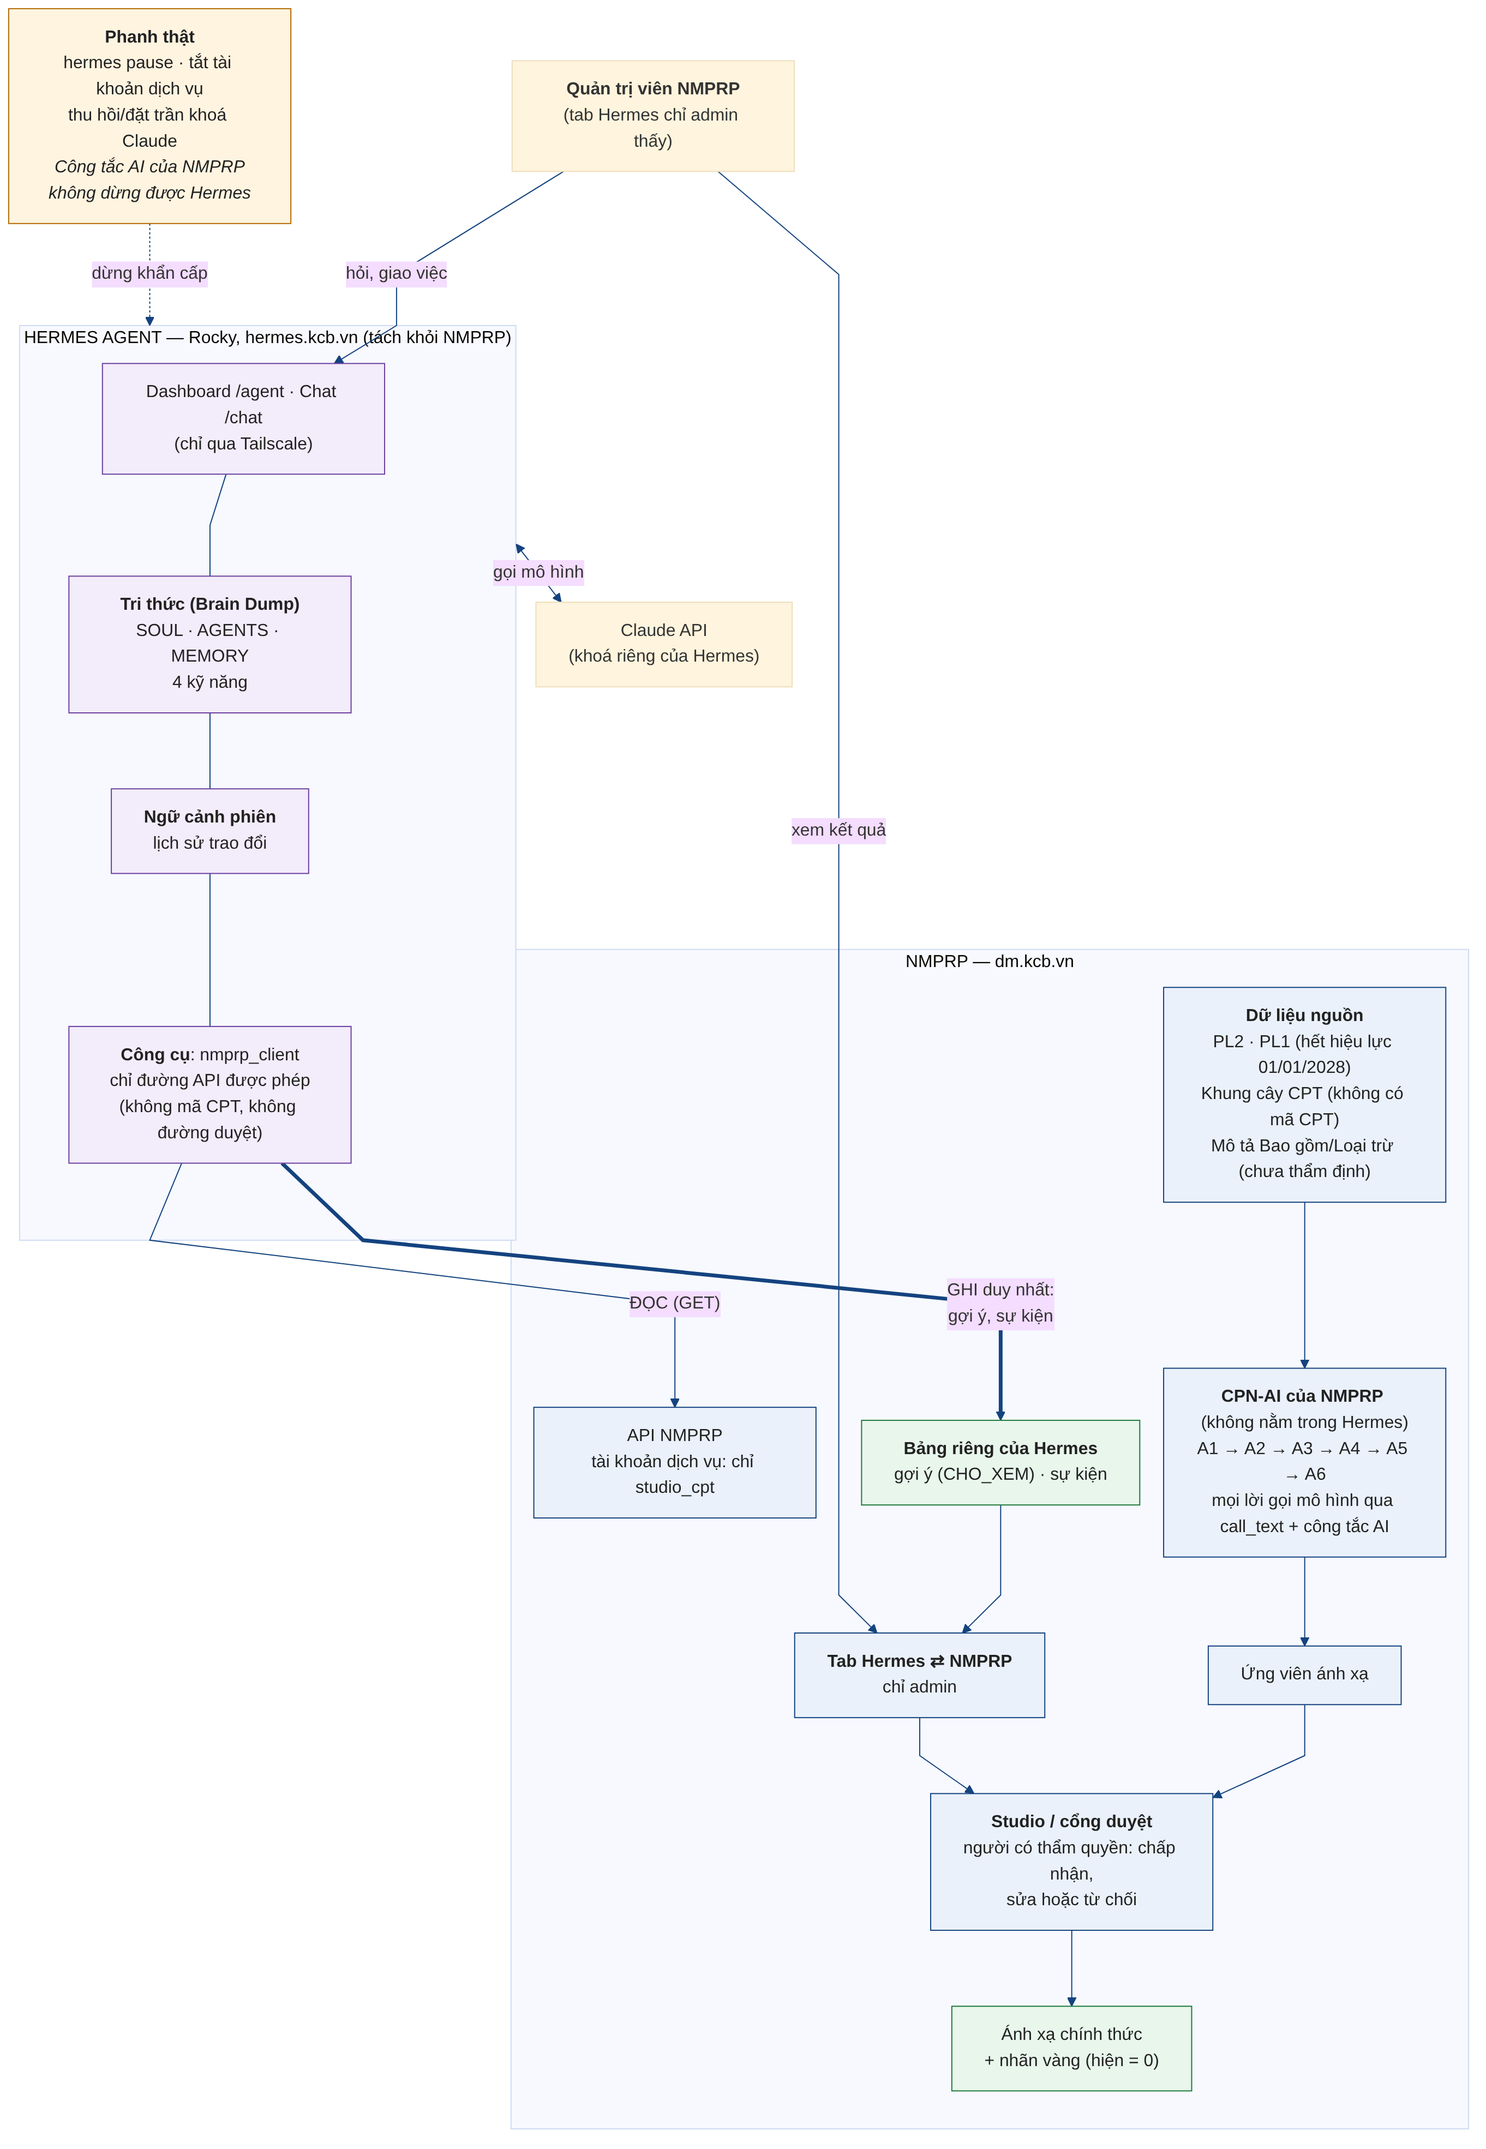
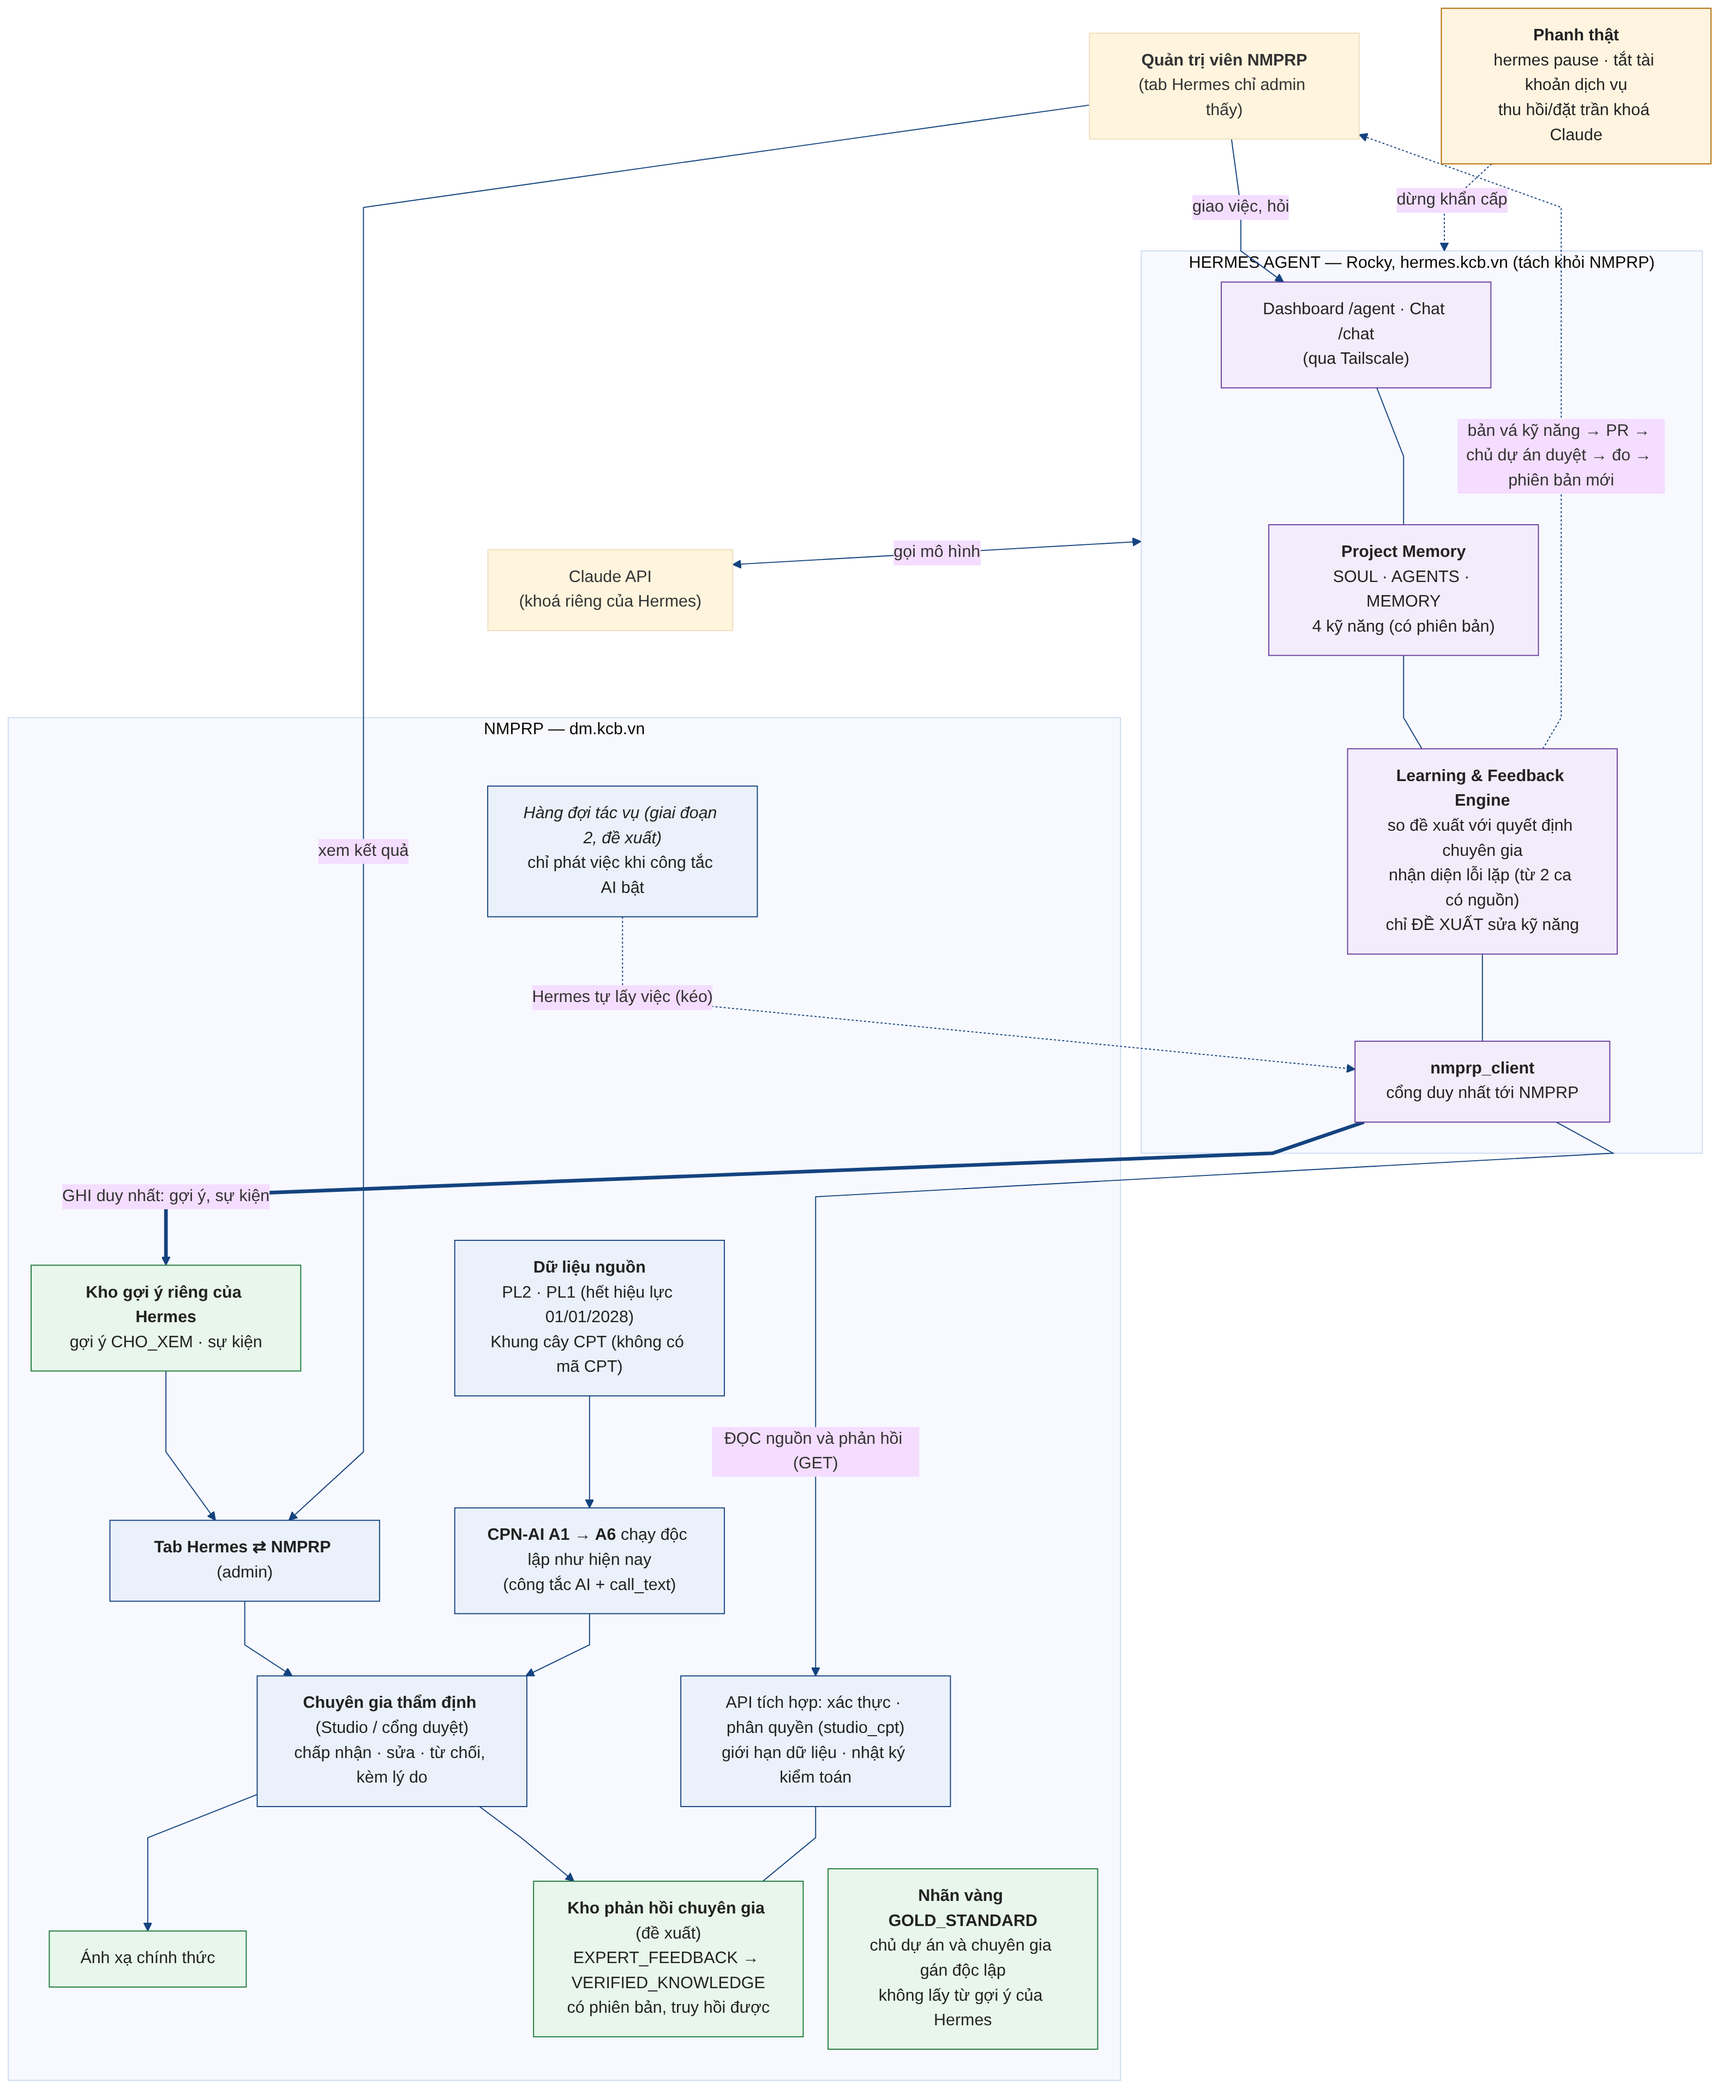
bo sung vong phan hoi hai chieu vao kien truc NMPRP Hermes
Theo tham dinh so do: kho phan hoi chuyen gia, ba loai bo nho, ba nhan phan hoi,
hang doi tac vu giai doan 2 (Hermes tu keo viec, chi phat viec khi cong tac AI bat).
Ghi ro cac cho chua co: ham duyet co ly do, duong doc phan hoi cho studio_cpt.

Claude-Session: https://claude.ai/code/session_016nm14f3MSqeDwEw72Umqxp

diff --git a/tests/test_hermes_profile_files.py b/tests/test_hermes_profile_files.py
@@ -68,6 +68,8 @@ class ProfileFilesTest(unittest.TestCase):
                   "NO_SAFE_MATCH", "PENDING_EXPERT_REVIEW", "DISPUTED", "RULE_CANDIDATE"):
             self.assertIn(s, a)
         self.assertIn("KHÔNG ghi vào trường trạng thái của NMPRP", a)
+        for s2 in ("EXPERT_FEEDBACK", "VERIFIED_KNOWLEDGE", "GOLD_STANDARD"):
+            self.assertIn(s2, a)
         self.assertIn("CHO_XEM", a)
 
     def test_brain_dump_has_32_answers_and_owner_gate(self):

diff --git a/hermes/profiles/nmprp-mapping/skills/nmprp-learn-from-review/SKILL.md b/hermes/profiles/nmprp-mapping/skills/nmprp-learn-from-review/SKILL.md
@@ -11,12 +11,14 @@ description: Đọc quyết định của người duyệt trên NMPRP để rú
 ## Procedure
 1. Đọc quyết định của người duyệt qua các đường đọc đã cho phép (`/admin/cpn-ai/runs/{id}/candidates`, kèm tên). Chỉ dùng dữ liệu có nguồn: mã PL2, người duyệt, thời điểm.
 2. Phân loại sai sót: lệch cơ quan, sai đường tiếp cận, chọn nút quá rộng hoặc quá hẹp, hoặc đúng.
+2b. Mỗi quyết định của người duyệt chỉ là `EXPERT_FEEDBACK`. Chấp nhận một gợi ý của Hermes không biến nó thành `GOLD_STANDARD` và không tự thành kiến thức đã xác nhận.
 3. Một bài học chỉ đáng ghi khi gặp lại từ 2 ca có nguồn trở lên. Ghi một câu ngắn kèm mã PL2 làm bằng chứng.
 4. ĐỀ XUẤT sửa `nmprp-retrieval-assist` bằng một bản vá văn bản gửi cho chủ dự án xem. KHÔNG tự sửa skill đang chạy khi chưa được duyệt.
 5. Sau khi chủ dự án chấp nhận, bản sửa phải được đo lại trên nhãn vàng trước khi thành mặc định.
 
 ## Pitfalls
 - Không ghi vào bộ nhớ những điều chưa có nguồn: bộ nhớ sai sẽ lan ra hàng loạt gợi ý.
+- Một phản hồi đơn lẻ không đủ để đề xuất đổi quy tắc; không bao giờ tự sửa `SOUL.md`, `AGENTS.md` hay kỹ năng đang chạy.
 - Không đổi mặc định khi chưa có benchmark và chưa được chủ dự án chốt.
 - Không đưa mã CPT, mật khẩu, token vào bài học.
 

diff --git a/hermes/profiles/nmprp-mapping/AGENTS.md b/hermes/profiles/nmprp-mapping/AGENTS.md
@@ -34,6 +34,7 @@ NMPRP (dm.kcb.vn) chuẩn hoá danh mục kỹ thuật khám chữa bệnh của
 - `PENDING_EXPERT_REVIEW`: đã chuyển chuyên gia, đang chờ. Tương ứng `PENDING` của NMPRP.
 - `DISPUTED`: người duyệt bất đồng; giữ nguyên cho đến khi người có thẩm quyền quyết.
 - `RULE_CANDIDATE`: bài học có từ 2 ca có nguồn; chưa phải quy tắc, chỉ là giả thuyết.
+Nhãn cho phản hồi của người duyệt (cũng là nhãn HA): `EXPERT_FEEDBACK` (ý kiến thẩm định), `VERIFIED_KNOWLEDGE` (đã kiểm tra lại: từ 2 ca có nguồn hoặc người thứ hai, kèm phản chứng), `GOLD_STANDARD` (chỉ do quy trình nhãn vàng của NMPRP gán độc lập; không lấy từ gợi ý của Hermes đã được chấp nhận).
 Nhãn HA không thay đổi hợp đồng NMPRP và không làm thay đổi `CHO_XEM`.
 
 ## Dạng một gợi ý
